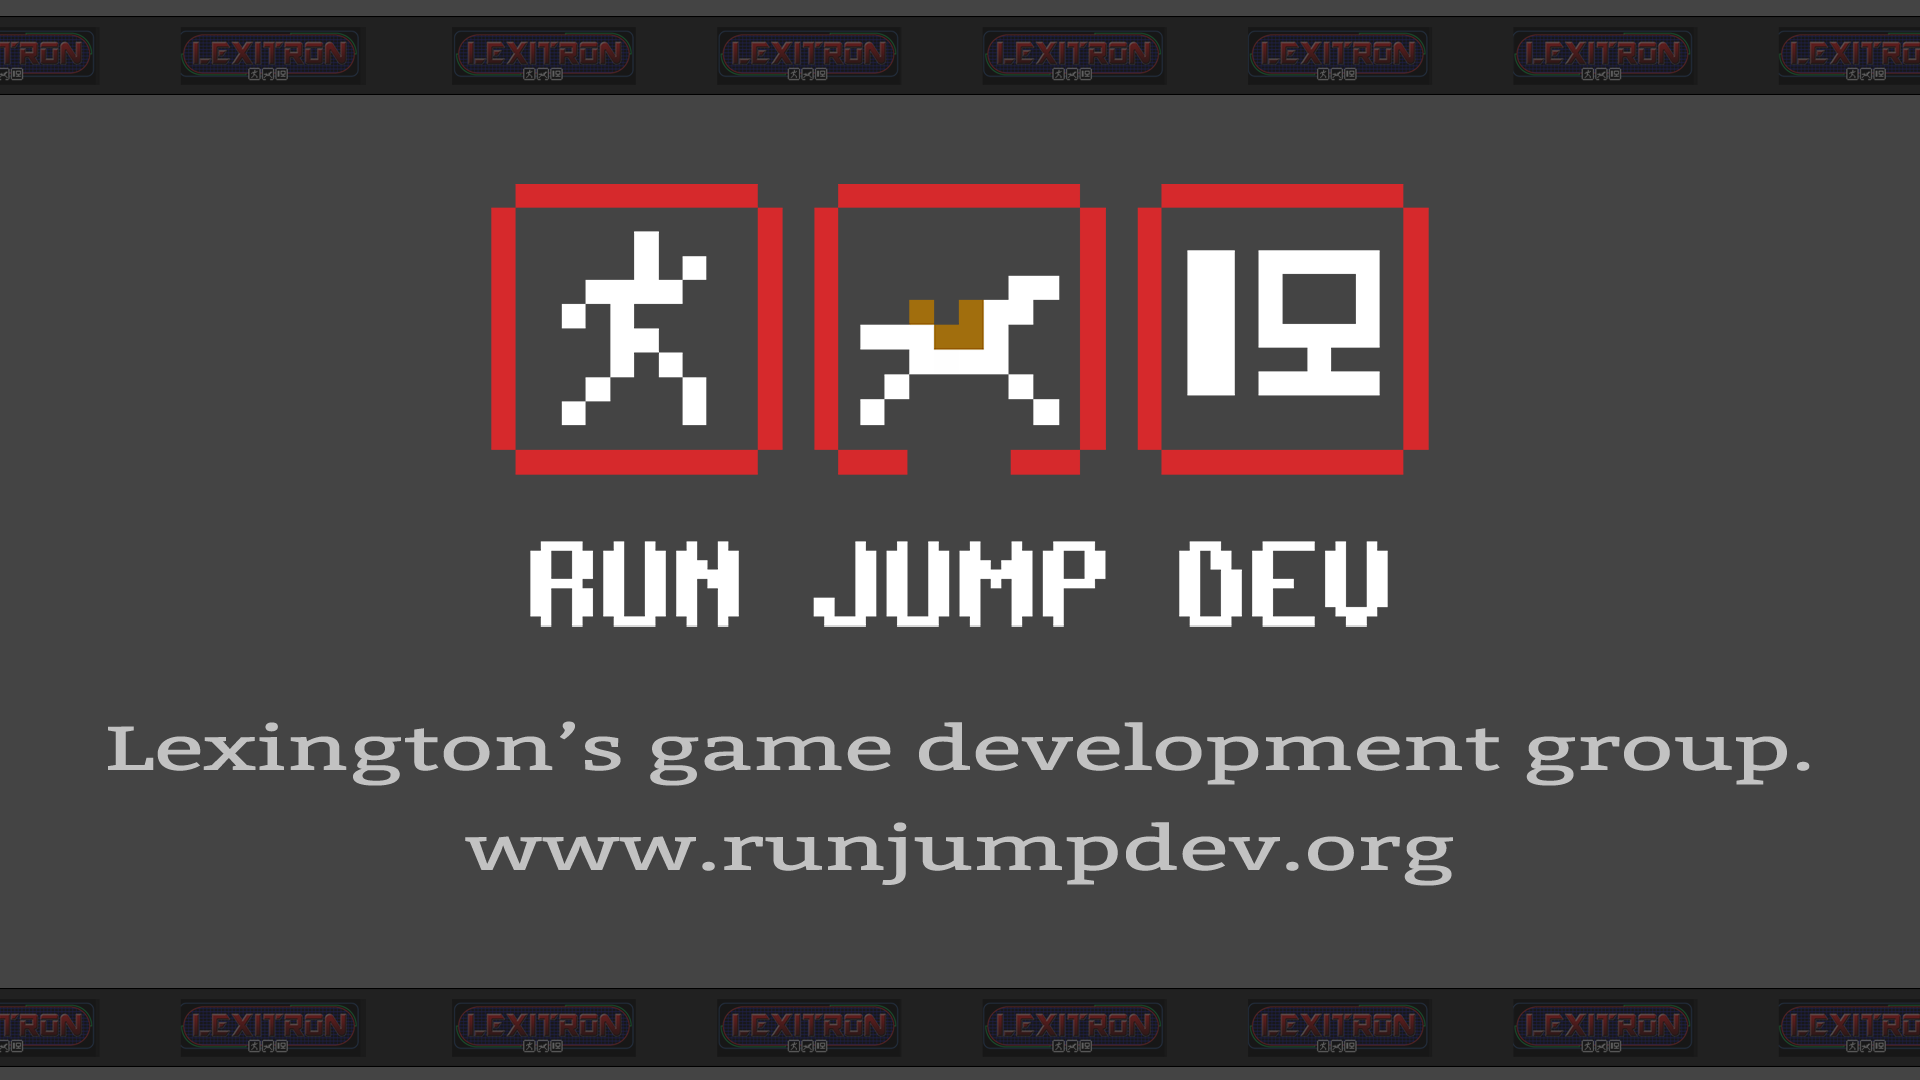
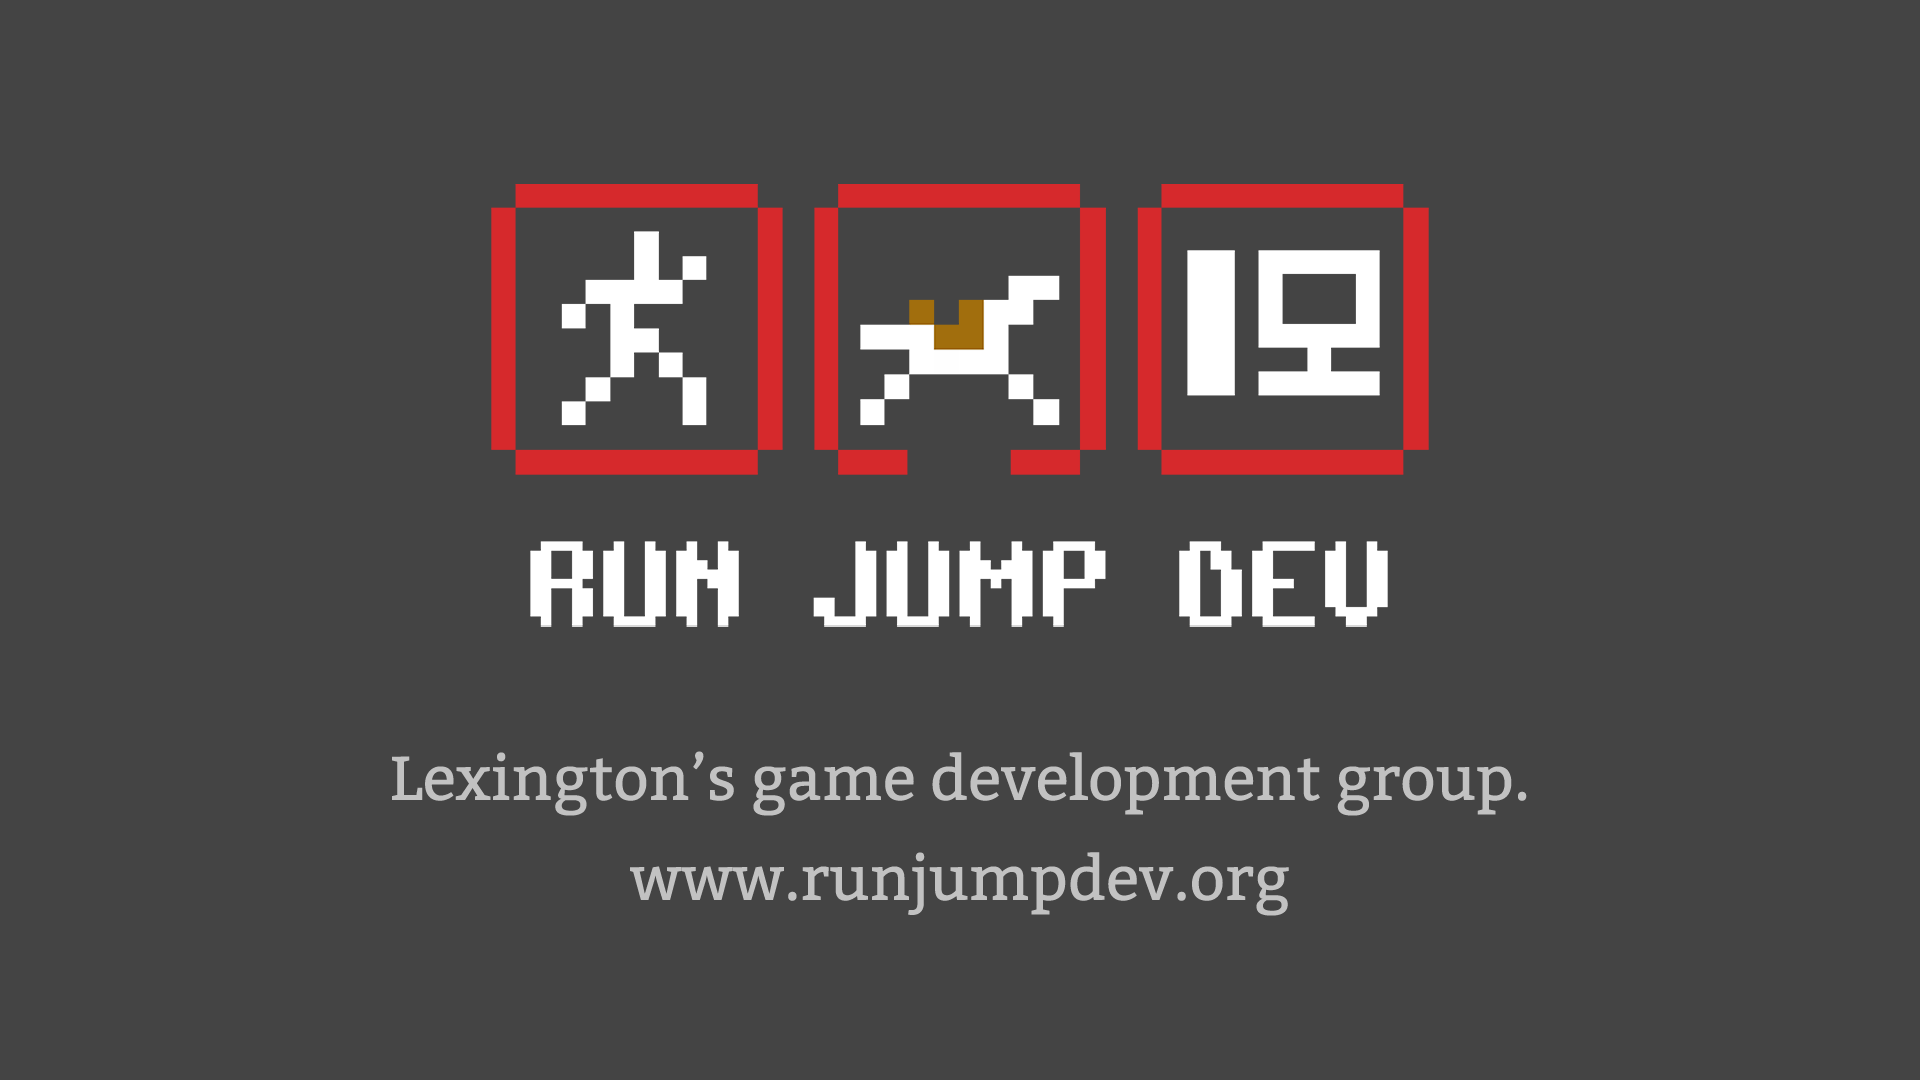
Moves Reveal controls, swaps RJD image, credits

Changed region(s): [[0.0312, 0.6722, 0.9375, 0.8556], [0.0, 0.9167, 1.0, 1.0], [0.0, 0.0, 1.0, 0.0917]]

diff --git a/source/css/style.css b/source/css/style.css
@@ -255,16 +255,19 @@ html, body, div {
 
 .reveal .controls div.navigate-left {
   border-right-width: 66px;
-  left:-70px;
+  left: -70px;
+  top: -18px;
 }
 .reveal .controls div.navigate-right {
   border-left-width: 66px;
-  left:124px;
+  left: 124px;
+  top: -18px;
 }
 .reveal .controls div.navigate-up {
   border-bottom-width: 66px;
+  bottom: 136px;
 }
 .reveal .controls div.navigate-down {
   border-top-width: 66px;
-  top: 56px;
+  top: 61px;
 }

diff --git a/source/index.html b/source/index.html
@@ -130,8 +130,7 @@
               <h2>About us!</h2>
             </section>
             <section class='autoslide-5000'>
-              <h1>Run! Jump! Dev!</h1>
-              <h2>Sponsors!</h2>
+              <img src="images/Lexitron_RunJumpDev_CreditsandSponsors.png"></img>
             </section>
           </section>
           <script type="text/template" class="template">
